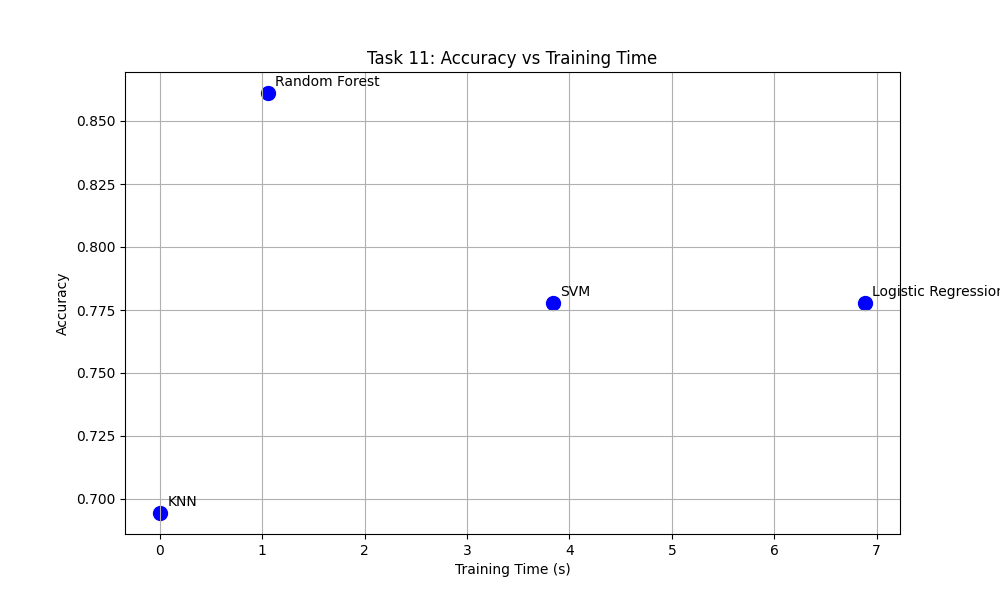
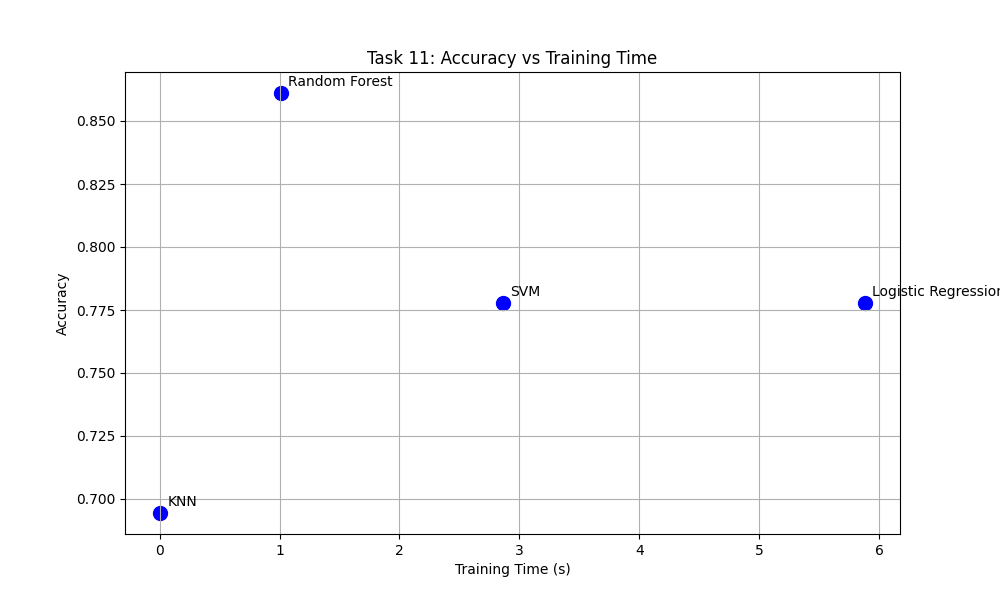
New data

diff --git a/src/vision/train_cnn.py b/src/vision/train_cnn.py
@@ -8,148 +8,61 @@ from src.vision.cnn_model import SimpleCNN
 from sklearn.metrics import confusion_matrix, ConfusionMatrixDisplay
 import matplotlib.pyplot as plt
 
-
 TRAIN_DIR = Path("data/processed/images/train")
 TEST_DIR = Path("data/processed/images/test")
-
 BATCH_SIZE = 16
-
-EPOCHS = 8
+EPOCHS = 20
 LEARNING_RATE = 0.001
 MODEL_PATH = Path("models/cnn_model.pt")
 CLASS_NAMES_PATH = Path("models/cnn_classes.txt")
 
-def create_dataloaders():
-    transform = transforms.Compose([
-        transforms.ToTensor()
-    ])
-
-    train_dataset = EuroSATDataset(
-        root_dir=TRAIN_DIR,
-        transform=transform
-    )
-    
-    test_dataset = EuroSATDataset(
-        root_dir=TEST_DIR,
-        transform=transform
-    )
-    
-    train_loader = DataLoader(
-        train_dataset,
-        batch_size=BATCH_SIZE,
-        shuffle=True
-    )
-    
-    test_loader = DataLoader(
-        test_dataset,
-        batch_size=BATCH_SIZE,
-        shuffle=False
-    )
-    
-    print("=== DataLoader Inspection ===")
-    print(f"Training samples: {len(train_dataset)}")
-    print(f"Testing samples: {len(test_dataset)}")
-    print(f"Classes: {train_dataset.class_names}")
-    print(f"Class mapping: {train_dataset.class_to_index}")
-    
-    images, labels = next(iter(train_loader))
-    
-    print(f"Batch image shape: {images.shape}")
-    print(f"Batch label shape: {labels.shape}")
-
-    return train_loader, test_loader, train_dataset.class_names
 
 def get_device():
     if torch.cuda.is_available():
         return torch.device("cuda")
-    
     return torch.device("cpu")
 
 def train_model(model, train_loader, device):
     loss_function = nn.CrossEntropyLoss()
-
-    optimizer = torch.optim.Adam(
-        model.parameters(),
-        lr=LEARNING_RATE
-    )
-
+    optimizer = torch.optim.Adam(model.parameters(), lr=LEARNING_RATE)
     model.train()
 
     for epoch in range(EPOCHS):
         total_loss = 0.0
-
         for images, labels in train_loader:
-            images = images.to(device)
-            labels = labels.to(device)
-
+            images, labels = images.to(device), labels.to(device)
             optimizer.zero_grad()
-
             outputs = model(images)
-
             loss = loss_function(outputs, labels)
-
             loss.backward()
-
             optimizer.step()
-
             total_loss += loss.item()
         
         average_loss = total_loss / len(train_loader)
-
         print(f"Epoch {epoch + 1}/{EPOCHS}, Loss: {average_loss:.4f}")
 
 def evaluate_model(model, test_loader, device):
     model.eval()
-
     correct = 0
     total = 0
-
     with torch.no_grad():
         for images, labels in test_loader:
-            images = images.to(device)
-            labels = labels.to(device)
-
+            images, labels = images.to(device), labels.to(device)
             outputs = model(images)
-
-            _, predicted = torch.max(
-                outputs,
-                dim=1
-            )
-
+            _, predicted = torch.max(outputs, dim=1)
             total += labels.size(0)
-
-            correct += (
-                predicted == labels
-            ).sum().item()
+            correct += (predicted == labels).sum().item()
 
     accuracy = correct / total
-
-    print("=== Evaluation ===")
-    print(f"Test samples: {total}")
     print(f"Accuracy: {accuracy:.4f}")
-
     return accuracy
 
 def save_model(model, class_names):
-    MODEL_PATH.parent.mkdir(
-        parents=True,
-        exist_ok=True
-    )
-    
-    torch.save(
-        model.state_dict(),
-        MODEL_PATH
-    )
-    
+    MODEL_PATH.parent.mkdir(parents=True, exist_ok=True)
+    torch.save(model.state_dict(), MODEL_PATH)
     with open(CLASS_NAMES_PATH, "w") as f:
         for class_name in class_names:
             f.write(class_name + "\n")
-    
-    print("=== Saving Model ===")
-    print(f"Saved model: {MODEL_PATH}")
-    print(f"Saved classes: {CLASS_NAMES_PATH}")
-
-
 
 def generate_confusion_matrix(model, test_loader, device, class_names):
     model.eval()
@@ -169,45 +82,59 @@ def generate_confusion_matrix(model, test_loader, device, class_names):
     
     fig, ax = plt.subplots(figsize=(8, 6))
     disp.plot(ax=ax, cmap='viridis')
-    plt.title("Confusion Matrix: CNN Satellite Classification")
+    plt.title("Confusion Matrix")
     
     report_dir = Path("reports")
     report_dir.mkdir(exist_ok=True)
     plt.savefig(report_dir / "confusion_matrix.png")
-    print(f"Confusion matrix saved to {report_dir / 'confusion_matrix.png'}")
-    plt.show()    
+    plt.show()
+
+
+def create_dataloaders():
+    train_transform = transforms.Compose([
+        transforms.RandomHorizontalFlip(),
+        transforms.RandomRotation(10),
+        transforms.ToTensor()
+    ])
+
+    test_transform = transforms.Compose([
+        transforms.ToTensor()
+    ])
+
+    train_dataset = EuroSATDataset(
+        root_dir=TRAIN_DIR,
+        transform=train_transform
+    )
+    
+    test_dataset = EuroSATDataset(
+        root_dir=TEST_DIR,
+        transform=test_transform
+    )
+    
+    train_loader = DataLoader(
+        train_dataset,
+        batch_size=BATCH_SIZE,
+        shuffle=True
+    )
+    
+    test_loader = DataLoader(
+        test_dataset,
+        batch_size=BATCH_SIZE,
+        shuffle=False
+    )
+    
+    return train_loader, test_loader, train_dataset.class_names
 
 
 def main():
     train_loader, test_loader, class_names = create_dataloaders()
-
     device = get_device()
+    model = SimpleCNN(num_classes=len(class_names)).to(device)
 
-    print(f"Using device: {device}")
-
-    model = SimpleCNN(
-        num_classes=len(class_names)
-    )
-
-    model = model.to(device)
-
-    train_model(
-        model,
-        train_loader,
-        device
-    )
-
-    evaluate_model(
-        model,
-        test_loader,
-        device
-    )
-
-    save_model(
-        model,
-        class_names
-    )
-
+    train_model(model, train_loader, device)
+    evaluate_model(model, test_loader, device)
+    save_model(model, class_names)
+    generate_confusion_matrix(model, test_loader, device, class_names)
 
 if __name__ == "__main__":
     main()